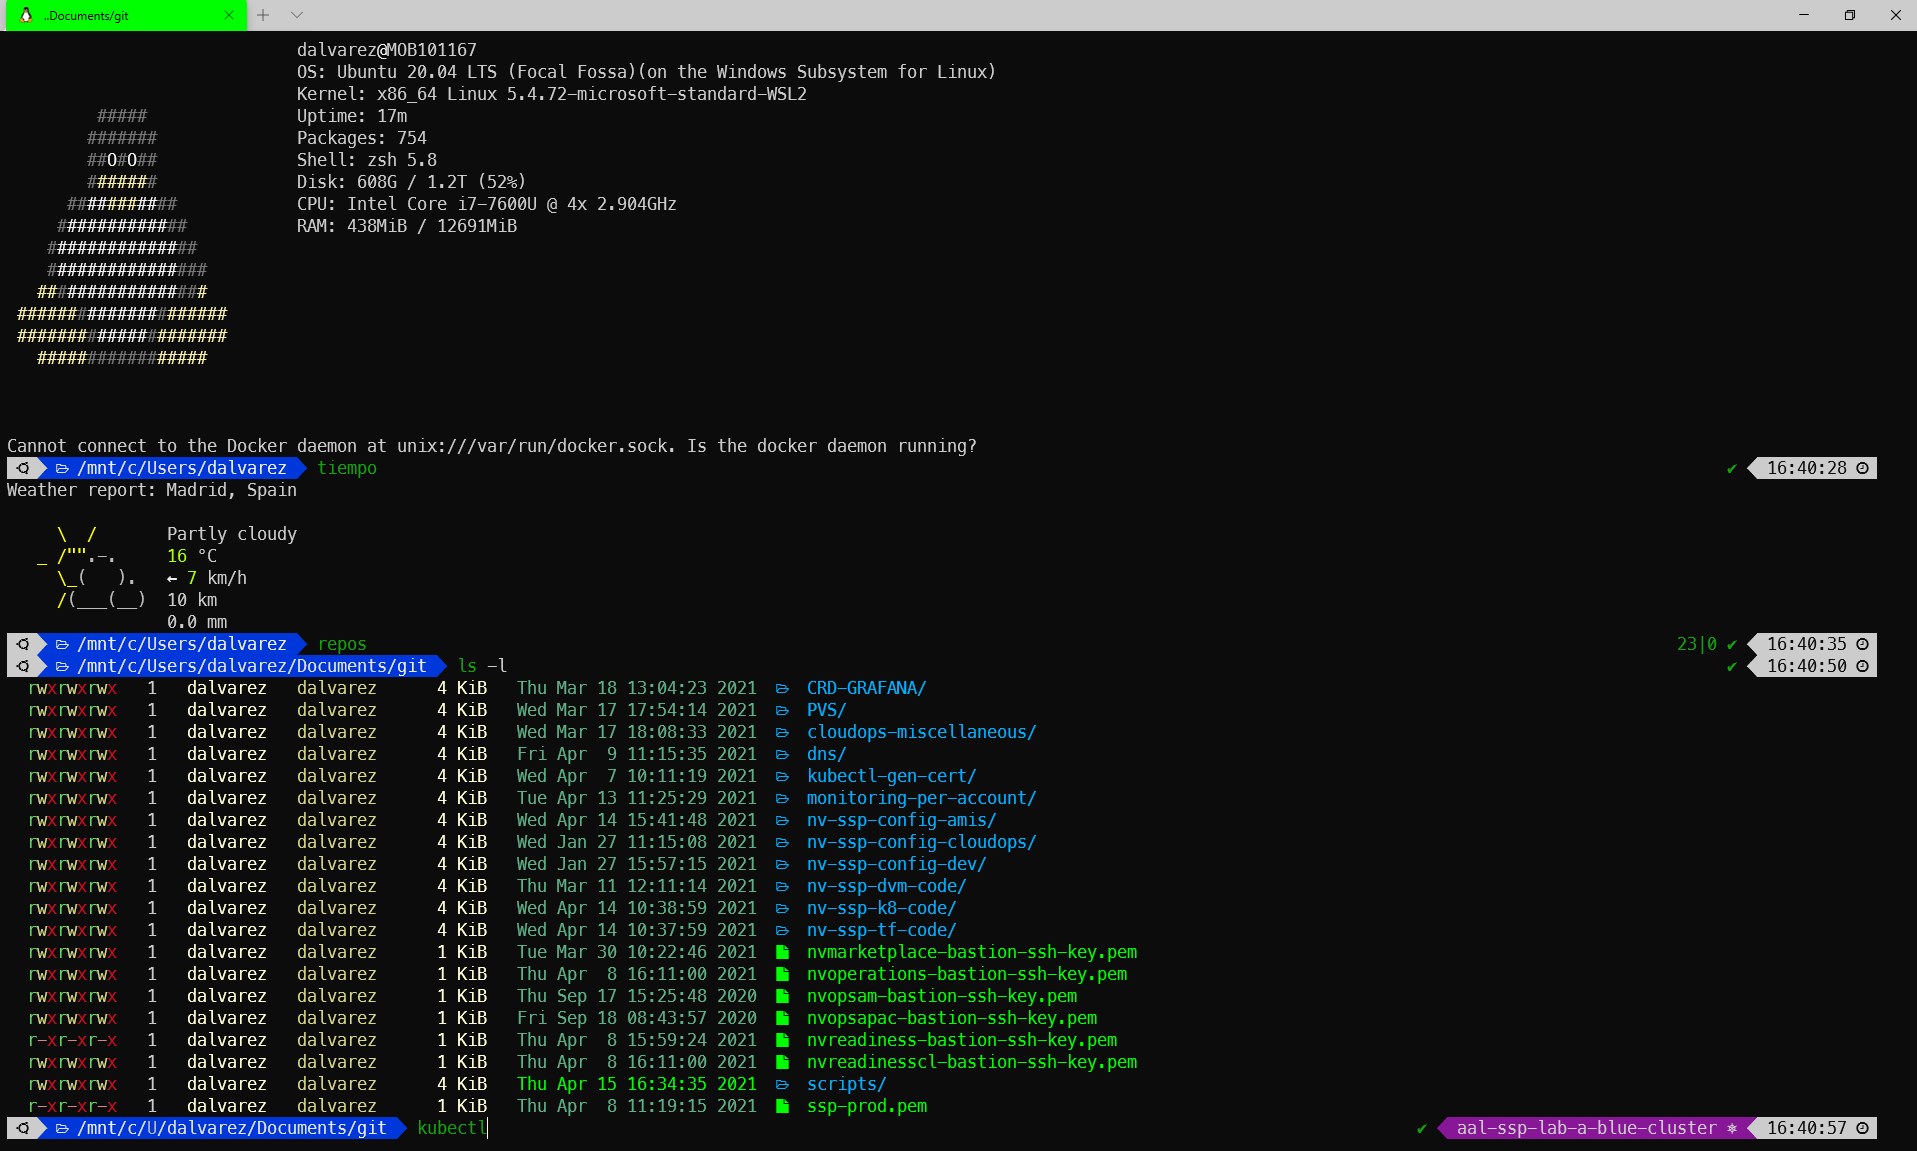
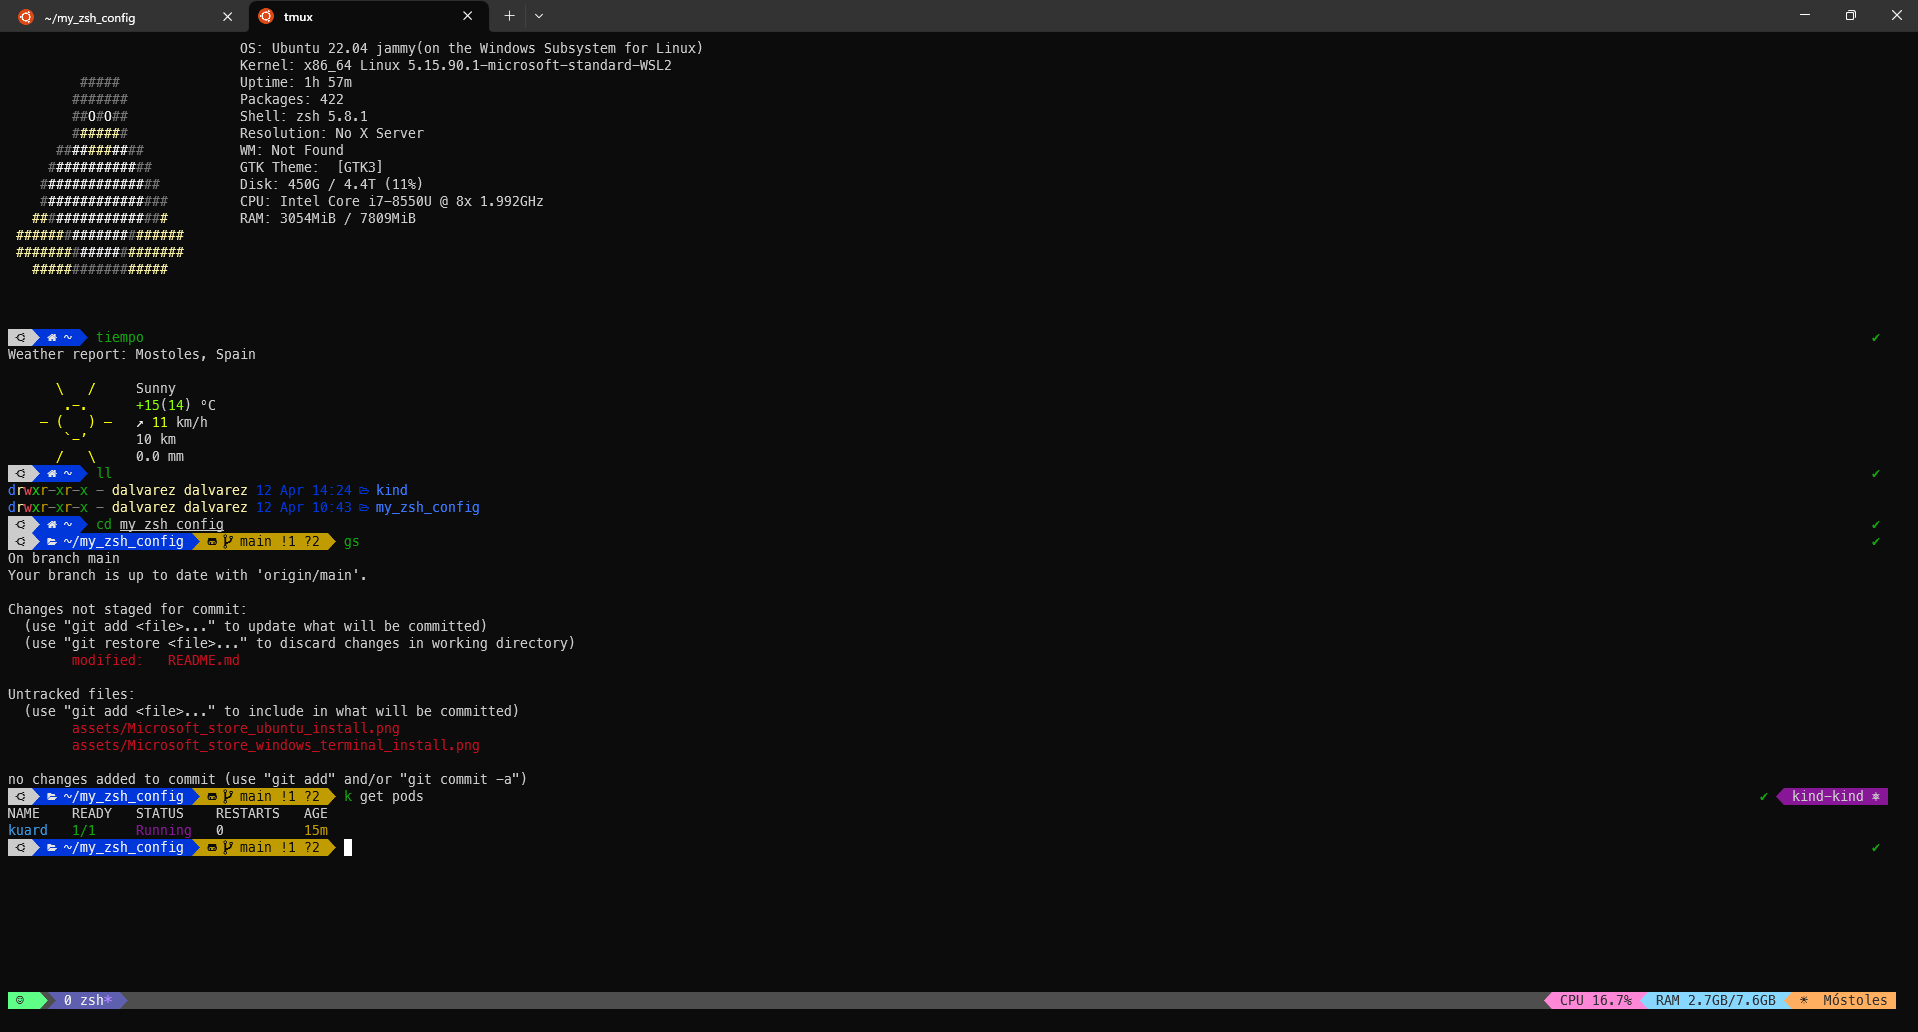
Update all README with images

diff --git a/README.md b/README.md
@@ -1,4 +1,4 @@
-# Windows Terminal + WSL2 Ubuntu 20.04 LTS + Oh-my-Zsh + Powerlevel10k + plugins
+# Windows Terminal + Fonts + WSL2 Ubuntu 22.04.2 LTS + Oh-my-Zsh(Plugins) + Powerlevel10k + Tmux (Dracula) + EXA + KIND (Kubernetes)
 
 <img src="/assets/terminal-windows.png">
 
@@ -10,9 +10,38 @@ Repository to not forget all...and share with community.
 
 Windows WSL2: --> https://docs.microsoft.com/es-es/windows/wsl/install-win10
 
+After enable Windows Subsystem, go to Microsoft Store and install Windows Terminal & Ubuntu
+
+Ubuntu 22.04.2 LTS:
+
+<img src="/assets/Microsoft_store_ubuntu_install.png">
+
+Windows Terminal:
+
+<img src="/assets/Microsoft_store_windows_terminal_install.png">
+
 ### Installing
 
 To get this configuration in your local environment you must follow this guide:
+
+#### Install Nerd Fonts
+
+Go to fonts folder in this repo and double click to install in Windows:
+
+- MesloLGS NF Regular.ttf
+- MesloLGS NF Italic.ttf
+- MesloLGS NF Bold.ttf
+- MesloLGS NF Bold Italic.ttf
+
+If you don't trust me and don't want to use the fonts in the folder, you can download the original files in --> https://www.nerdfonts.com/
+
+Once installed, open Ubuntu 20.04.2 LTS configuration, go to properties:
+
+- Select `MESLO LGS NF` 
+- Size of letters that you want for me 10.
+
+<img src="/assets/select_fonts_in_ubuntu.png">
+
 
 #### Install ZSH
 
@@ -26,125 +55,184 @@ sudo apt-get install zsh
 sh -c "$(curl -fsSL https://raw.githubusercontent.com/robbyrussell/oh-my-zsh/master/tools/install.sh)"
 ```
 
-#### Git clone Powerlevel10K theme and Configure it as you like.
+#### Install Powerlevel10K theme
 
 ```bash
 git clone --depth=1 https://github.com/romkatv/powerlevel10k.git ${ZSH_CUSTOM:-$HOME/.oh-my-zsh/custom}/themes/powerlevel10k
-
-# Restart Zsh and write: (If the configuration wizard doesn't start automatically.)
-p10k configure
 ```
 
-### Install fonts
+#### Install ZSH plugins
 
-Clone this repository and go to `fonts` folder and install.
+Execute the command directly in your terminal.
 
-Later open Ubuntu 20.04 LTS, go to properties and select `MESLO LGS NF` and size that you want.
+#### zsh-autosuggestions
+```bash
+git clone https://github.com/zsh-users/zsh-autosuggestions ${ZSH_CUSTOM:-~/.oh-my-zsh/custom}/plugins/zsh-autosuggestions
+```
+#### zsh-completions
+```bash
+git clone https://github.com/zsh-users/zsh-completions ${ZSH_CUSTOM:=~/.oh-my-zsh/custom}/plugins/zsh-completions
+```
+#### zsh-syntax-highlighting
+```bash
+git clone https://github.com/zsh-users/zsh-syntax-highlighting.git ${ZSH_CUSTOM:-~/.oh-my-zsh/custom}/plugins/zsh-syntax-highlighting
+```
 
-<img src="/assets/fonts-config.png">
+More sotfware third party:
 
-### Install Screenfetch
+#### Install Screenfetch
+
+Download and put the binary in /usr/local/bin/
 
 ```bash
 https://github.com/KittyKatt/screenFetch/wiki/Installation
-
-# (Normally I use my /usr/local/bin/ to have all binary)
 ```
 
-### Install plugins
-
+#### Install FZF
 ```bash
+sudo apt install fzf
+```
 
-# zsh-autosuggestions
-git clone https://github.com/zsh-users/zsh-autosuggestions ${ZSH_CUSTOM:-~/.oh-my-zsh/custom}/plugins/zsh-autosuggestions
-
-# zsh-completions
-git clone https://github.com/zsh-users/zsh-completions ${ZSH_CUSTOM:=~/.oh-my-zsh/custom}/plugins/zsh-completions
-
-# zsh-syntax-highlighting
-git clone https://github.com/zsh-users/zsh-syntax-highlighting.git ${ZSH_CUSTOM:-~/.oh-my-zsh/custom}/plugins/zsh-syntax-highlighting
-
+#### Install Forgit (Dependency of FZF)
+```bash
+git clone https://github.com/wfxr/forgit ${ZSH_CUSTOM:-~/.oh-my-zsh/custom}/plugins/forgit
 ```
 
 Now, edit your ~/.zshrc file to activate it.
 
-# Install Fuzzy
-
 ```bash
-https://github.com/junegunn/fzf
-
-# (Normally I use my /usr/local/bin/ to have all binary)
+plugins=(
+        git
+        zsh-autosuggestions
+        zsh-syntax-highlighting
+        zsh-completions
+        kubectl
+        aws
+        forgit
+)
 ```
 
-# Install Forgit
+You see that I have also aws and kubectl plugins:
 
+--> (OPTIONAL) AWS-CLI Auto-Completion + FZF + OhMyZSH = https://medium.com/@herryhan2435/using-aws-cli-with-fzf-on-ohmyzsh-ec995ee3784f
+
+
+#### Install EXA
 ```bash
-
-git clone https://github.com/wfxr/forgit ${ZSH_CUSTOM:-~/.oh-my-zsh/custom}/plugins/forgit
-
-# Source via .zshrc:
-
-[ -f ~/.oh-my-zsh/custom/plugins/forgit/forgit.plugin.zsh ] && source ~/.oh-my-zsh/custom/plugins/forgit/forgit.plugin.zsh
-
-```
-Now, edit your ~/.zshrc file to activate it again.
-# Install Git-Delta
-
-```bash
-https://github.com/dandavison/delta
-
-# Modify your global config
-git config --global -e
-...
-[core]
-    pager = delta
-
-[interactive]
-    diffFilter = delta --color-only	
-[delta]
-    features = side-by-side line-numbers decorations
-    syntax-theme = Monokai Extended	
-    line-numbers = true
-    plus-color = "#012800"
-    minus-color = "#340001"
-    side-by-side = false
-    whitespace-error-style = 22 reverse
-[delta "decorations"]
-    commit-decoration-style = bold yellow box ul
-    file-style = bold yellow ul
-    file-decoration-style = none
-...
-
-```
-### Install Ruby to enable colors
-
-```bash
-
-https://github.com/athityakumar/colorls
-
-sudo apt-get install ruby-full
-# restart the shell and run
-sudo gem install colorls
-# and add to ~/.zshrc near the bottom of the file
-source $(dirname $(gem which colorls))/tab_complete.sh
-# to have it replace your standard ls command, you can append to ~/.zshrc
-alias ls=colorls
-
+sudo apt install exa
 ```
 
-#### Export and Import  ~/.zsh_history
+Now, edit your ~/.zshrc file to configure alias for ll and llt.
+```bash
+# EXA https://github.com/ogham/exa#installation
+alias ll="exa -l -g --icons"
+alias llt="exa -1 --icons --tree"
+```
+
+#### Change default color of your VIM
+
+Create a .vimrc file with the following command: 
+```bash
+vim ~/.vimrc
+```
+
+This example uses the desert colorscheme:
+Hold Shift and hit : then type wq to save and quit the file.
+```bash
+syntax on
+colorscheme desert
+```
+
+https://mediatemple.net/community/products/dv/204644480/enabling-vi-syntax-colors-and-highlighting
+
+#### Install tmux & theme Dracula using TPM
+
+```bash
+git clone https://github.com/tmux-plugins/tpm ~/.tmux/plugins/tpm
+```
+Now create the file:
+
+```bash
+vim ~/.tmux.conf
+```
+
+And here my configuration, you can copy/paste and save:
+```bash
+# List of plugins
+set -g @plugin 'tmux-plugins/tpm'
+set -g @plugin 'tmux-plugins/tmux-sensible'
+
+# Dracula
+set -g @plugin 'dracula/tmux'
+
+# available plugins: battery, cpu-usage, git, gpu-usage, ram-usage, network, network-bandwidth, network-ping, attached-clients, network-vpn, weather, time
+set -g @dracula-plugins "cpu-usage ram-usage weather"
+
+# available colors: white, gray, dark_gray, light_purple, dark_purple, cyan, green, orange, red, pink, yellow
+# set -g @dracula-[plugin-name]-colors "[background] [foreground]"
+set -g @dracula-cpu-usage-colors "pink dark_gray"
+
+#Enable powerline symbols
+set -g @dracula-show-powerline true
+
+#Enable window flags
+set -g @dracula-show-flags true
+
+# the default is 5, it can accept any number
+set -g @dracula-refresh-rate 5
+
+# Set your location manually
+set -g @dracula-fixed-location "Móstoles"
+
+# Initialize TMUX plugin manager (keep this line at the very bottom of tmux.conf)
+run '~/.tmux/plugins/tpm/tpm'
+```
+
+Reload Tmux with theme:
+
+```bash
+tmux source ~/.tmux.conf
+```
+https://draculatheme.com/tmux
+
+#### Scroll Ubuntu + Windows Terminal
+
+Replace the default number by 50000 (Number of lines that you will be able to see ... )
+
+<img src="/assets/number_scroll_ubuntu.png">
+
+#### Export and Import  ~/.zsh_history from other PC.
 
 ```bash
 cp ~/.zsh_history  ~/.zsh_history.bak   # Easy, only copy from OLD zsh config and paste in new one.
 ```
 
-### Visual Studio
+#### Kubecolor
+
+Download and put the binary in /usr/local/bin/
+
+```bash
+https://github.com/hidetatz/kubecolor
+```
+
+<img src="/assets/kubecolor_example.png">
+
+#### Nerdctl
+
+Download and put the binary in /usr/local/bin/
+
+```bash
+https://github.com/containerd/nerdctl
+```
+
+
+#### Visual Studio
 
 ```bash
 code .
 ```
 
-Finally restart WSL and you should see a complete amazing terminal ;-)
+Finally restart WSL and Windows and you should see a complete amazing terminal ;-)
 If you have any doubts you can contact with me and I will try to help you!
 
 Also I upload all my config to repository you can see:
@@ -170,6 +258,10 @@ MIT
 * https://nickymeuleman.netlify.app/blog/linux-on-windows-wsl2-zsh-docker#zsh
 
 * https://github.com/romkatv/powerlevel10k/issues/310
+
+* https://www.hostinger.es/tutoriales/usar-tmux-cheat-sheet
+
+* https://dev.to/nexxeln/my-developer-workflow-using-wsl-tmux-and-neovim-55f5
 
 * Google...
 
